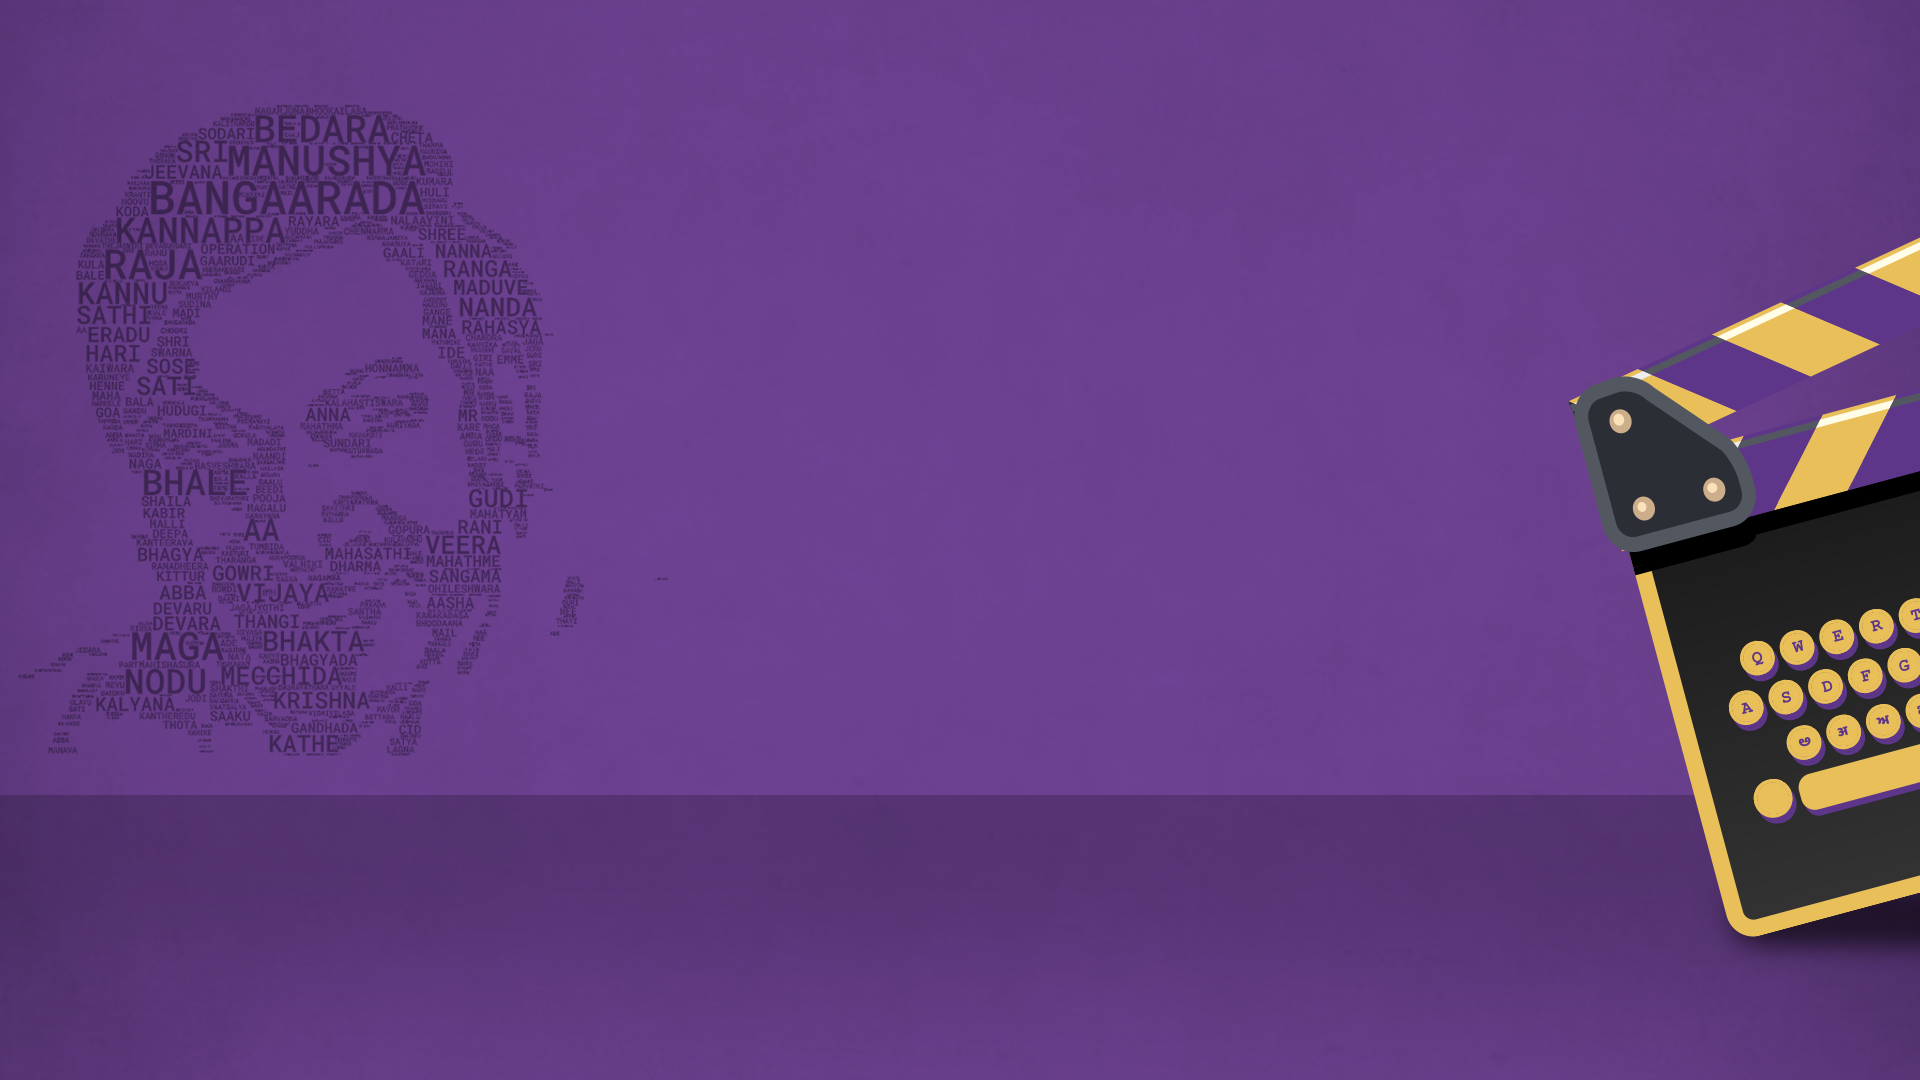
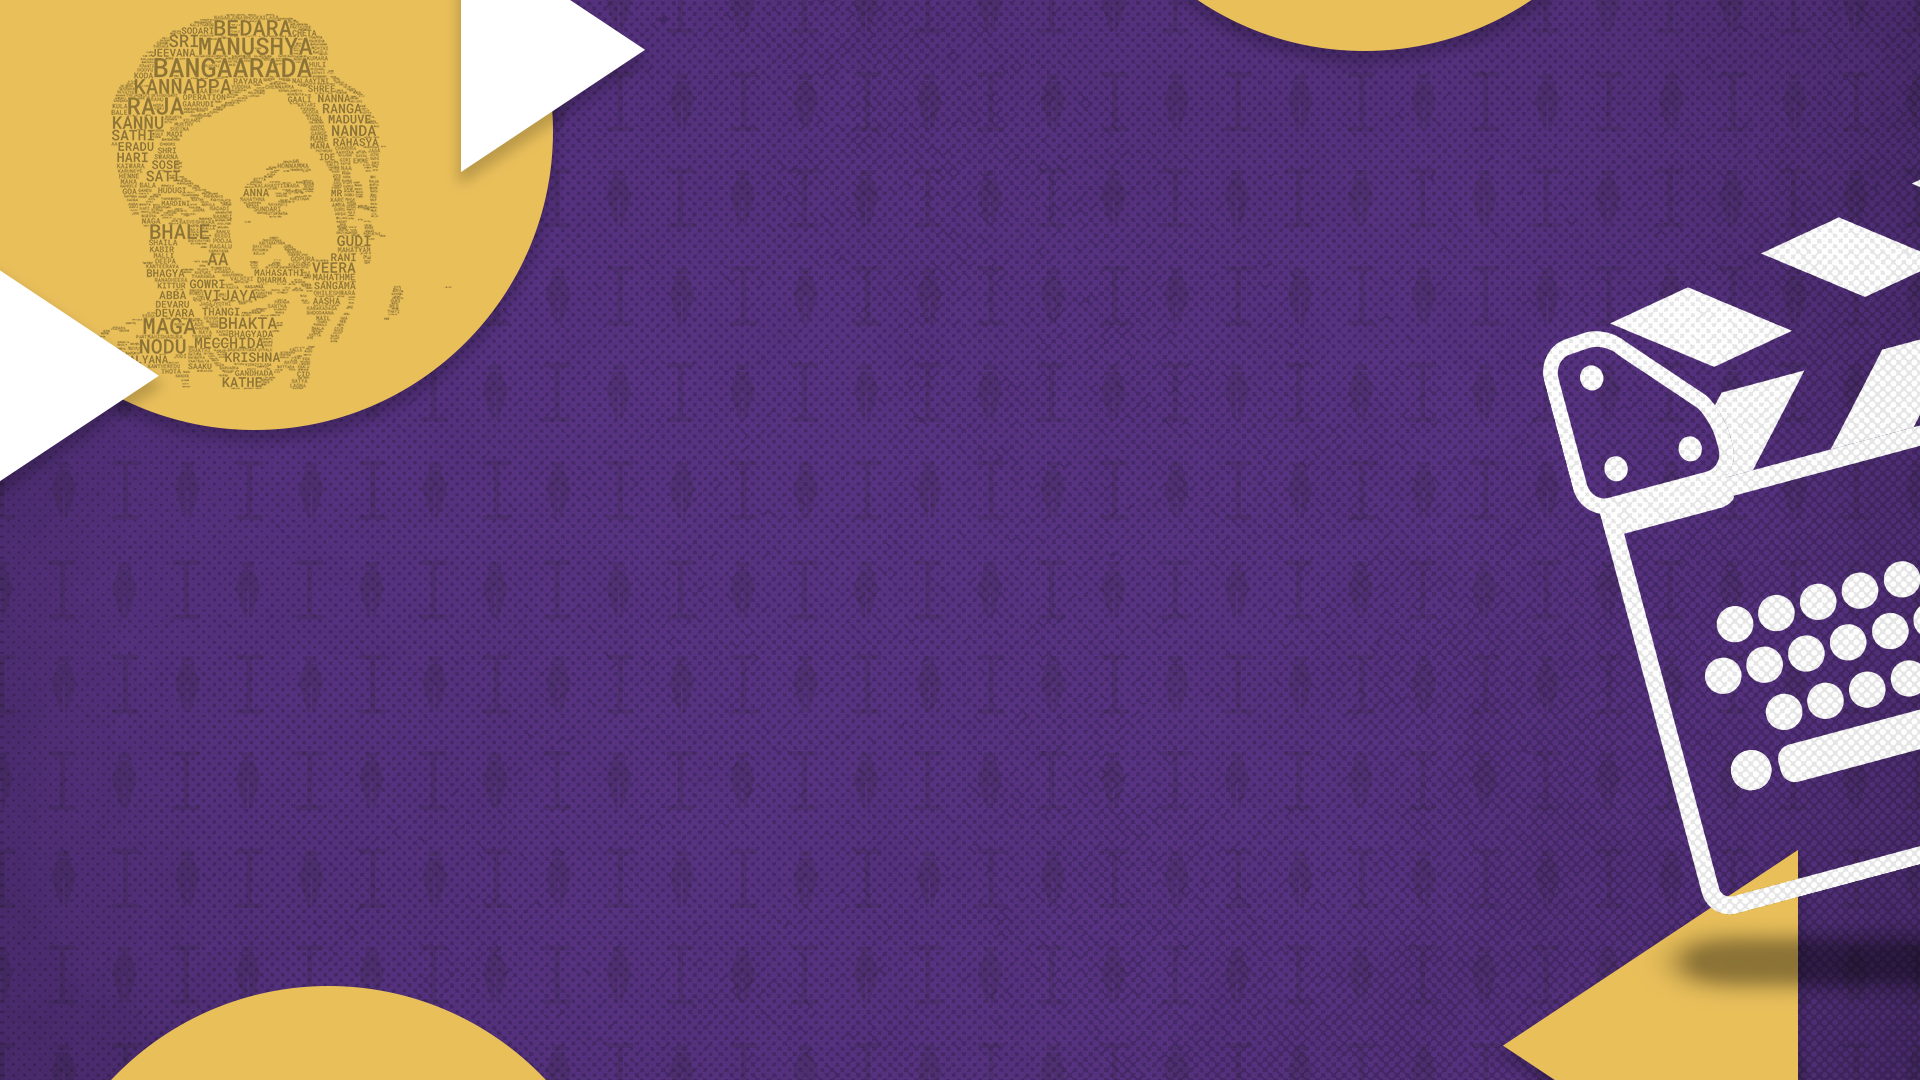
Updated splash and home screen backdrops.

diff --git a/qml/dialogs/SplashScreen.qml b/qml/dialogs/SplashScreen.qml
@@ -68,7 +68,7 @@ DialogLauncher {
 
         contentItem: Image {
             id: splashImage
-            source: "qrc:/images/splash.jpg"
+            source: "qrc:/images/splash.png"
             smooth: true; mipmap: true
             asynchronous: false
 
@@ -77,12 +77,12 @@ DialogLauncher {
 
                 anchors.top: parent.top
                 anchors.right: parent.right
-                anchors.topMargin: parent.height * (_dialogPrivate.scriteUrlTextPos.y / _dialogPrivate.splashImageSize.height)
-                anchors.rightMargin: parent.width * (_dialogPrivate.scriteUrlTextPos.x / _dialogPrivate.splashImageSize.width)
+                anchors.topMargin: parent.height * 0.05
+                anchors.rightMargin: parent.height * 0.05
 
                 color: "white"
                 font.bold: true
-                font.pixelSize: parent.height * (_dialogPrivate.scriteUrlFontPixelSize / _dialogPrivate.splashImageSize.height)
+                font.pixelSize: parent.height * 0.035
 
                 text: Scrite.app.applicationVersion
             }
@@ -120,8 +120,6 @@ DialogLauncher {
 
             readonly property size splashImageSize: Qt.size(1880, 800)
             readonly property real aspectRatio: splashImageSize.width / splashImageSize.height
-            readonly property point scriteUrlTextPos: Qt.point(35, 750)
-            readonly property real scriteUrlFontPixelSize: 24
         }
     }
 }

diff --git a/qml/dialogs/homescreen/HomeScreenImpl.qml b/qml/dialogs/homescreen/HomeScreenImpl.qml
@@ -174,13 +174,19 @@ Item {
 
             color: "white"
             elide: Text.ElideRight
-            padding: 8
+            padding: 10
             visible: text !== ""
             wrapMode: Text.WordWrap
             font.pointSize: Runtime.idealFontMetrics.font.pointSize
             maximumLineCount: 4
             verticalAlignment: Text.AlignBottom
             horizontalAlignment: Text.AlignLeft
+
+            background: Rectangle {
+                color: "black"
+                opacity: 0.8
+                radius: 5
+            }
 
             property Item source
 
